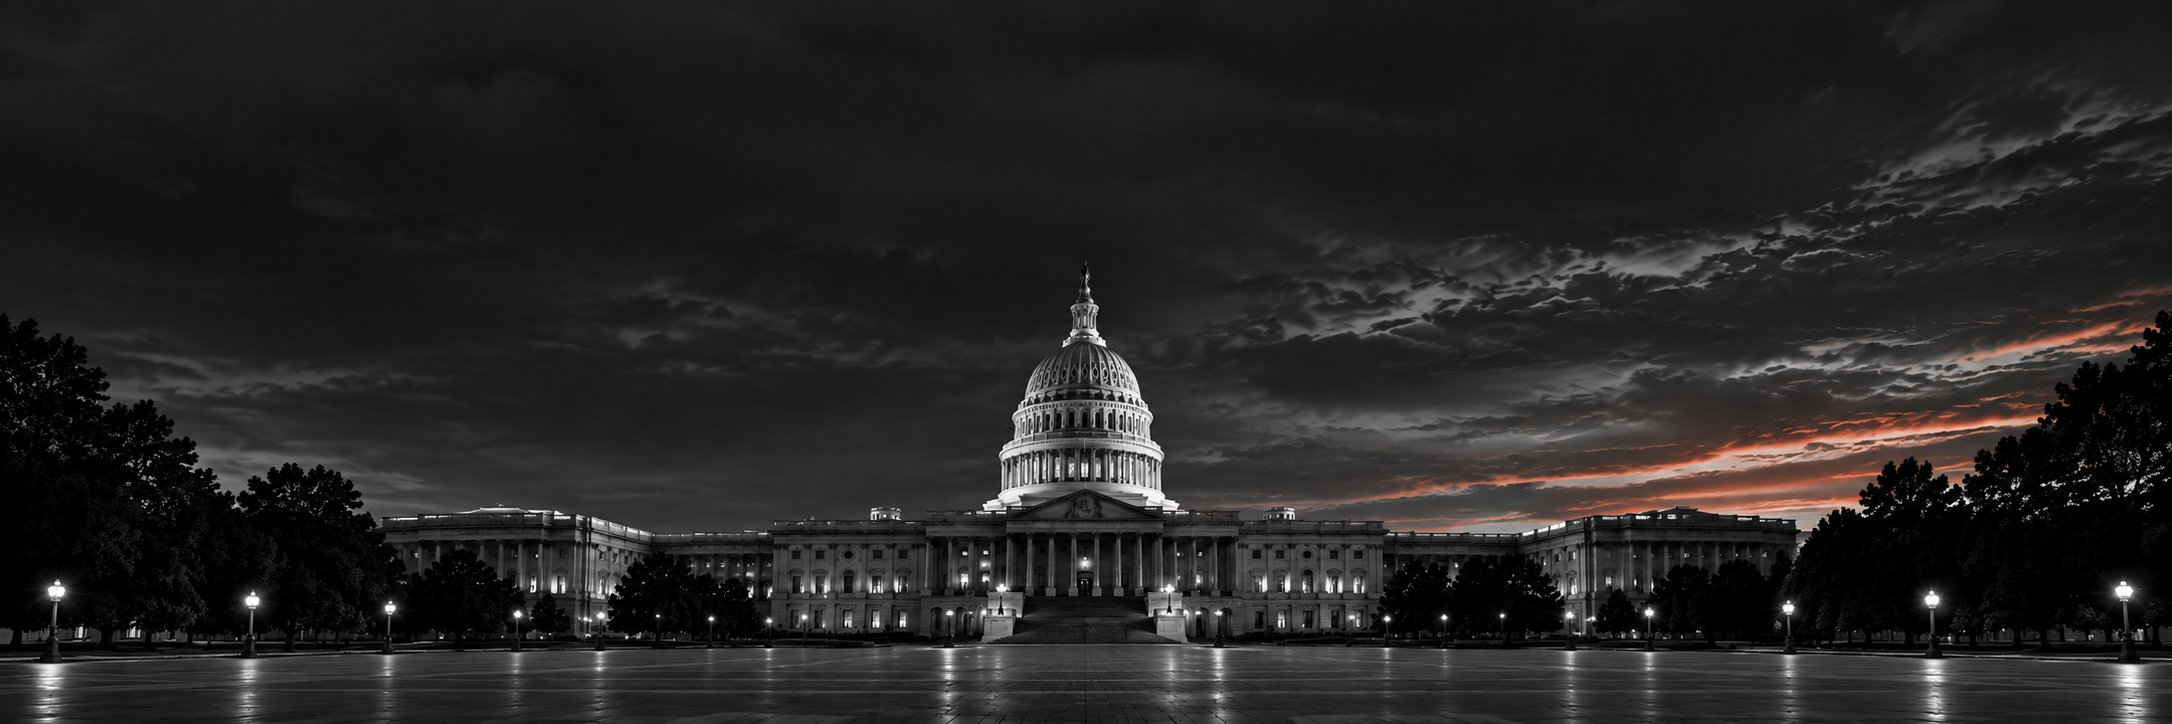
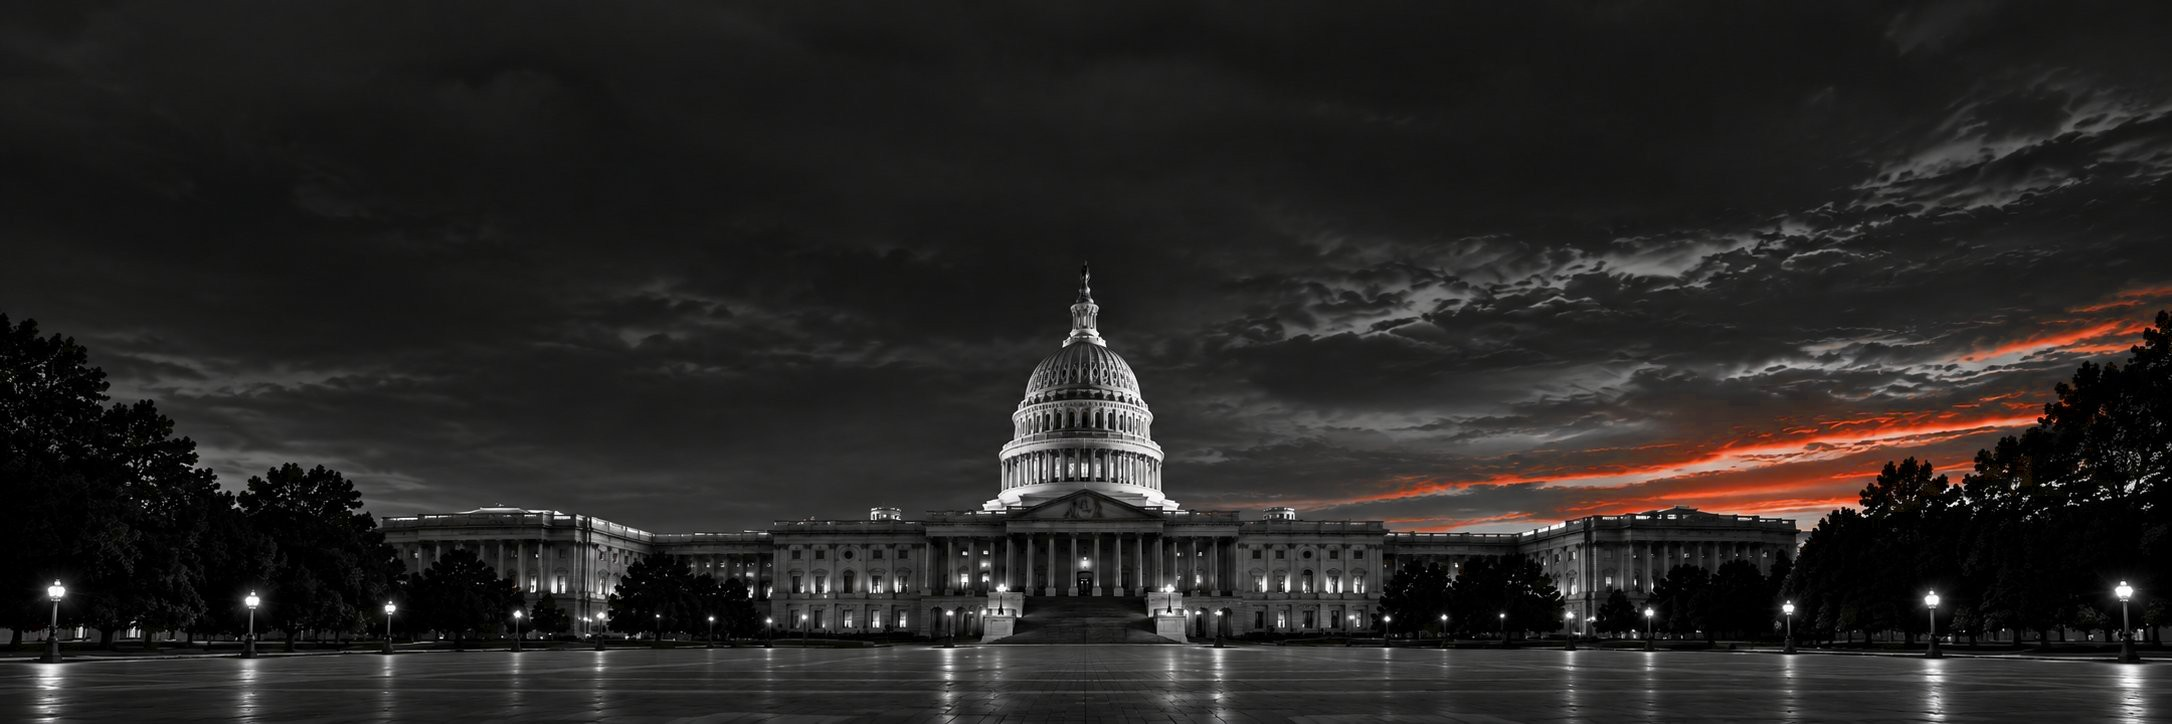
Nav dot, Profile grid, brighter Guide hero (#26)
* Nav: drop active-tab dot; Profile: 2/2/1 grid; Guide hero: brighter photo

Remove the 4x4 rust dot under the active top-bar tab, keep the underline; drop the now-unused gap:4 on the Link.

Claude-Session: https://claude.ai/code/session_01KEcWSmevhejj2FQgUa1BbA

* Profile: 2-column grid layout instead of a single narrow stack

2/2/1 grid (maxWidth 960, alignItems:start): Personal Information + Voting Location on row one, HUSH Preferences + Email Preferences on row two, Privacy spans both columns on its own row. Source order unchanged, no changes to the five section components themselves.

Claude-Session: https://claude.ai/code/session_01KEcWSmevhejj2FQgUa1BbA

* Guide hero: swap in brightened capitol-hero.jpg

Saturation/brightness boost on the sunset-band pixels only (building, plaza, clouds untouched). Same filename/path -- no code changes needed in GuideHero() or elsewhere.

Claude-Session: https://claude.ai/code/session_01KEcWSmevhejj2FQgUa1BbA

* Profile: equal-height row cards, center the grid on the page

Per feedback -- drop alignItems:"start" so each row's two cards stretch to match the taller one, and add margin:"0 auto" so the maxWidth:960 grid centers in the available width instead of sitting flush left.

Claude-Session: https://claude.ai/code/session_01KEcWSmevhejj2FQgUa1BbA

---------

diff --git a/src/components/views/ProfileSettingsView.tsx b/src/components/views/ProfileSettingsView.tsx
@@ -61,12 +61,23 @@ function StatusLine({ status, message }: { status: "idle" | "saving" | "saved" |
  */
 export default function ProfileSettingsView({ topicPool }: { topicPool: string[] }) {
   return (
-    <div style={{ padding: "24px 28px", display: "flex", flexDirection: "column", gap: 16, maxWidth: 640 }}>
+    <div
+      style={{
+        padding: "24px 28px",
+        display: "grid",
+        gridTemplateColumns: "repeat(2, minmax(0, 1fr))",
+        gap: 16,
+        maxWidth: 960,
+        margin: "0 auto",
+      }}
+    >
       <PersonalInfoSection />
       <VotingLocationSection />
       <HushPreferencesSection topicPool={topicPool} />
       <EmailPreferencesSection />
-      <PrivacySection />
+      <div style={{ gridColumn: "1 / -1" }}>
+        <PrivacySection />
+      </div>
     </div>
   );
 }

diff --git a/src/components/AppShell.tsx b/src/components/AppShell.tsx
@@ -164,7 +164,6 @@ export default function AppShell({ children }: { children: ReactNode }) {
                   display: "flex",
                   flexDirection: "column",
                   alignItems: "center",
-                  gap: 4,
                   fontSize: 14,
                   whiteSpace: "nowrap",
                   color: on ? C.ink : C.body,
@@ -174,7 +173,6 @@ export default function AppShell({ children }: { children: ReactNode }) {
                 <span style={{ paddingBottom: 4, borderBottom: `2px solid ${on ? C.rust : "transparent"}` }}>
                   {item.label}
                 </span>
-                <span style={{ width: 4, height: 4, borderRadius: "50%", background: on ? C.rust : "transparent" }} />
               </Link>
             );
           })}
